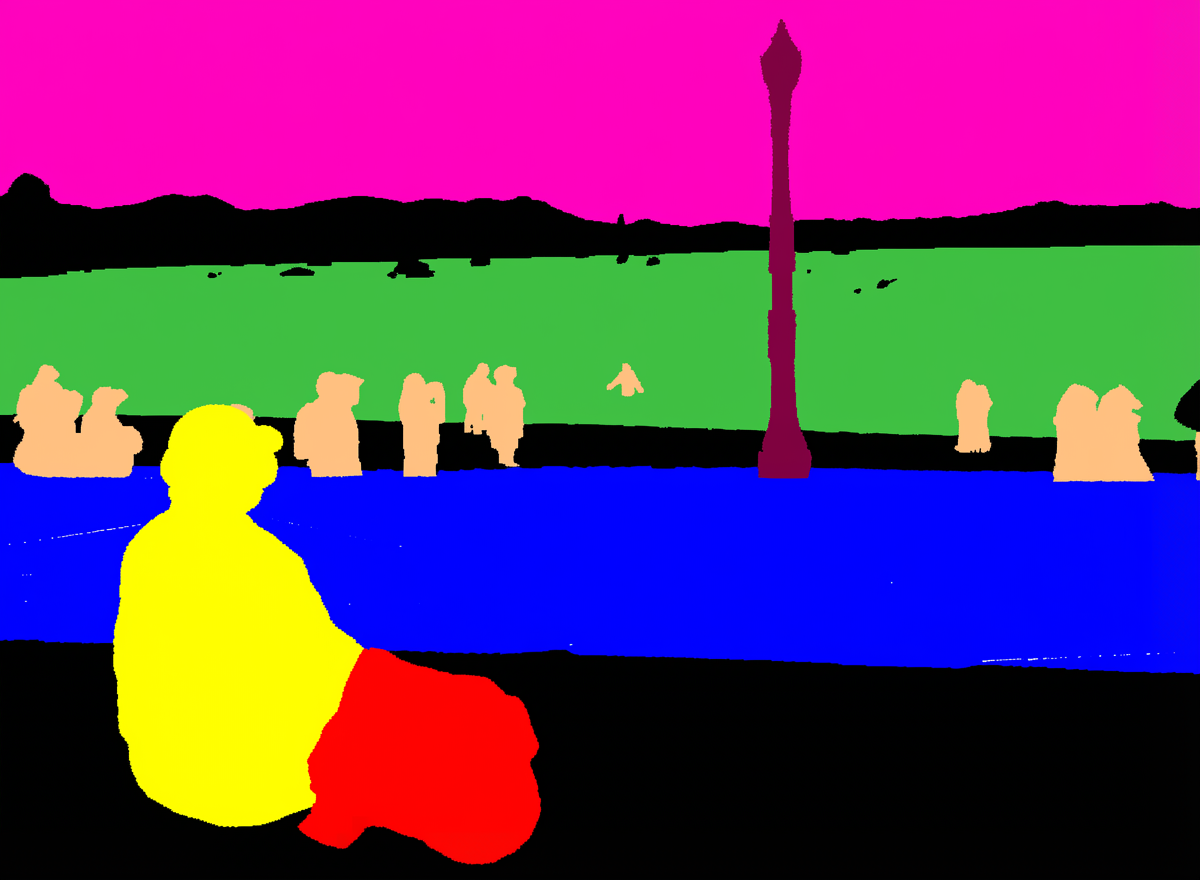
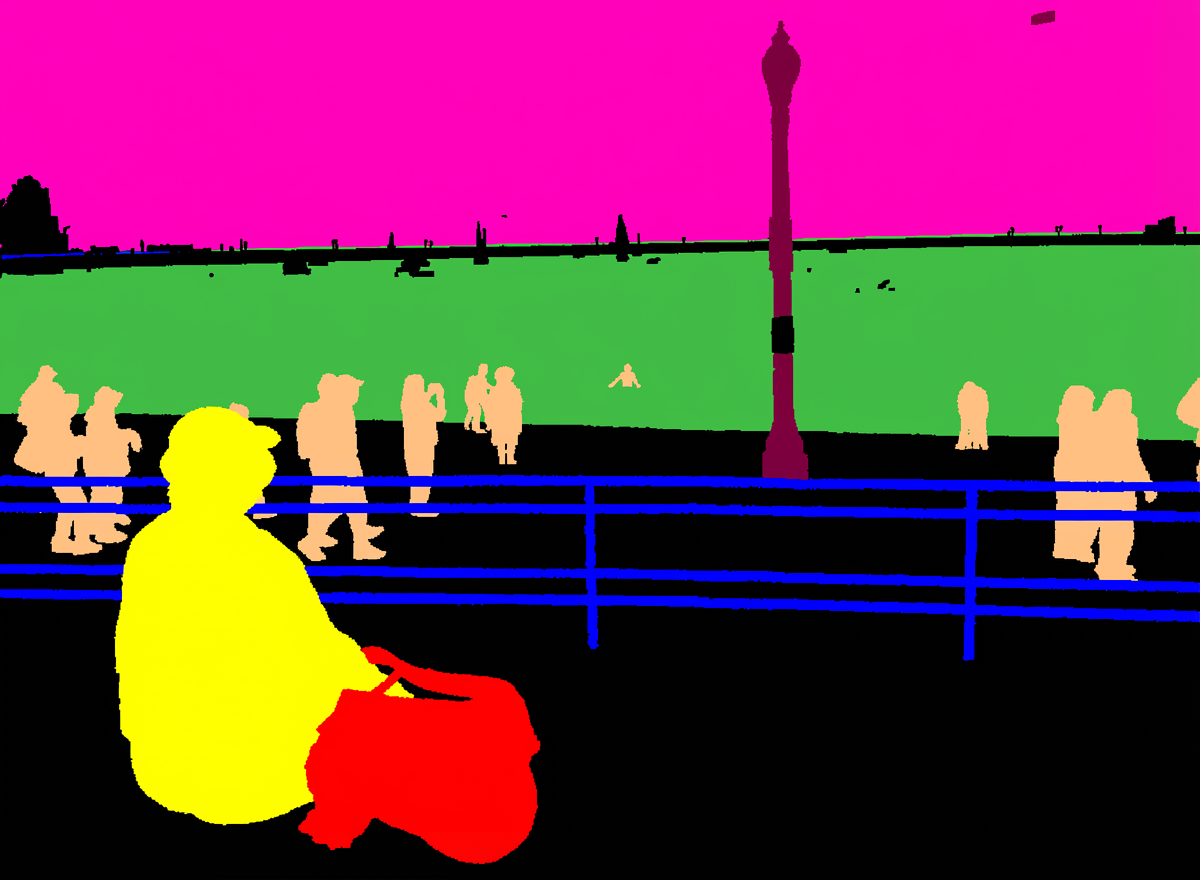
add semseg_ocean

diff --git a/index.html b/index.html
@@ -968,7 +968,7 @@
                             segmentation, using this color mapping: {"cat ears": &lt;255, 165, 0&gt;, "exit sign":
                             &lt;0, 0, 255&gt;, "background": &lt;125, 0, 125&gt;}</div>
                     </div>
-                    <!-- <div class="carousel-item">
+                    <div class="carousel-item">
                         <div class="reveal-card" data-task="semseg">
                             <img src="files/images/semseg/semseg_ocean_0.jpg" alt="Input image">
                             <div class="prediction"><img src="files/images/semseg/semseg_ocean_1.png"
@@ -981,7 +981,7 @@
                             walking people are represented by (255, 192, 128). The ocean is depicted in (64, 192, 64).
                             The street lights are in (128, 0, 64). The sky is in (255, 0, 192). The fence is in (0, 0,
                             255). The backpack is in (255, 0, 0).</div>
-                    </div> -->
+                    </div>
                 </div>
             </div>
             <p class="reveal-hint">Hover to reveal segmentation masks</p>
